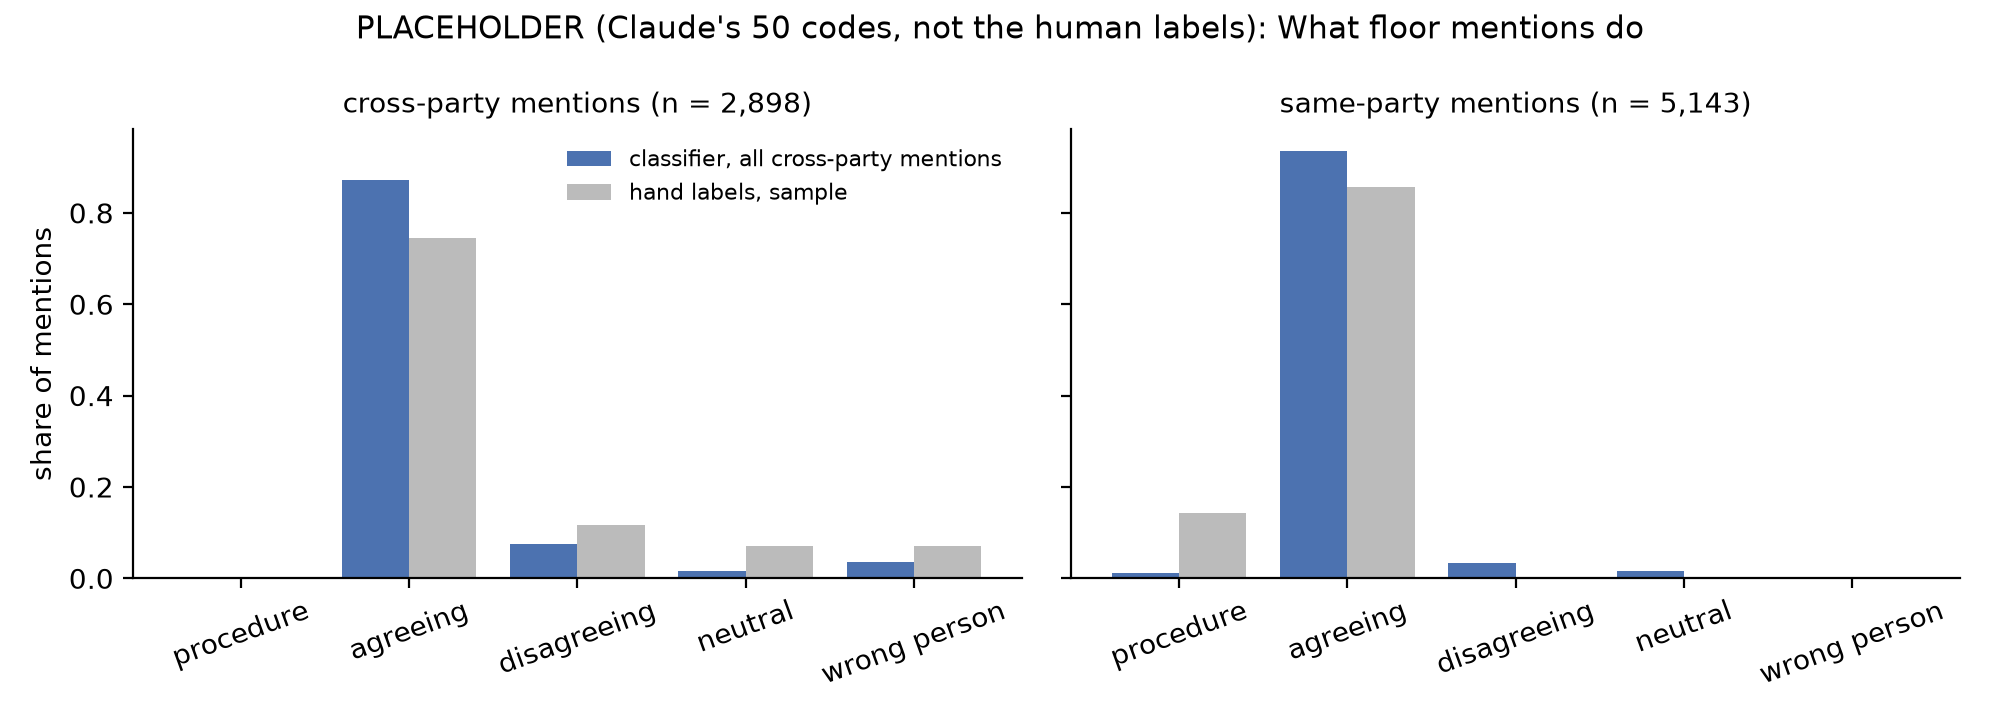
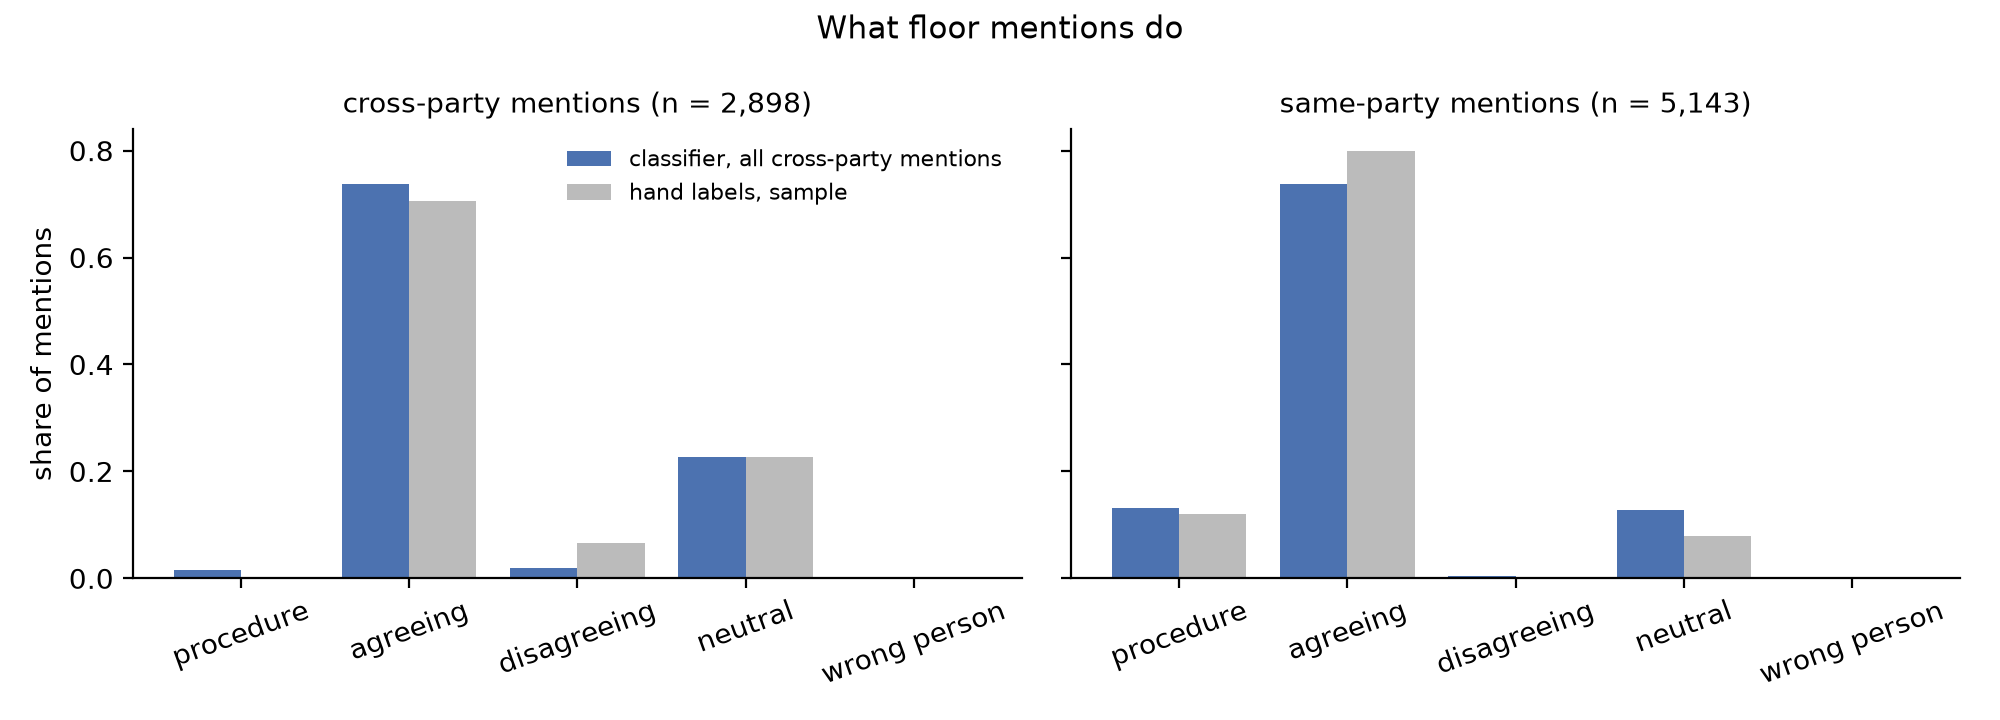
D2 coding complete: agreement and shares; D5 run on the human labels
Pooled human kappa 0.67. Cross-party mentions 71% agreeing, 7% disagreeing, 23% neutral.
Classifier 74% against a 73% always-agreeing baseline, so not used as a measurement.

diff --git a/project/Diego/d2_labelling/agreement.py b/project/Diego/d2_labelling/agreement.py
@@ -11,6 +11,7 @@ given as the argument.
 
 Codes: P procedure, A agreeing, D disagreeing, N neutral, X wrong person (see PROTOCOL.md).
 """
+import re
 import sys
 from itertools import combinations
 from math import sqrt
@@ -43,6 +44,21 @@ else:
     T = table(src)
 coders = [c for c in HUMANS + AIS if c in T.columns and (T[c].astype(str).str.strip() != "").any()]
 C = T[coders].apply(lambda s: s.astype(str).str.strip().str.upper()).join(key[["cross"]])
+PRIORITY = "XPDAN"                                      # the protocol's order when two codes fit
+
+
+def one_code(v):
+    """A cell with two codes ('A OR N', 'D, N') takes the first in the protocol's priority order."""
+    found = [c for c in CODES if re.search(rf"\b{c}\b", v)]
+    return min(found, key=PRIORITY.index) if len(found) > 1 and len(v) > 1 else v
+
+
+for c in coders:
+    for i in C.index[C[c].str.len() > 1]:
+        new = one_code(C.at[i, c])
+        if new != C.at[i, c]:
+            print(f"row {i}, {c}: '{C.at[i, c]}' read as {new} (two codes; protocol priority X, P, D, A, N)")
+            C.at[i, c] = new
 bad = C[coders].stack(); bad = bad[~bad.isin(CODES + [""])]
 if len(bad): raise SystemExit(f"unknown codes: {bad.to_dict()}")
 humans, ais = [c for c in coders if c in HUMANS], [c for c in coders if c in AIS]

diff --git a/project/WORK_AND_DEADLINES.md b/project/WORK_AND_DEADLINES.md
@@ -75,16 +75,16 @@ has not confirmed them. Confirm or change on 18 November.** Hours have not been 
 | # | Task | Delivers | Needs | Status |
 |---|---|---|---|---|
 | D1 | Count the 30 matches printed in the prototype notebook; extend to about 100; report precision | Matcher precision for Methods: `Diego/d1_matcher_precision/REPORT.md` | | In progress: 93 of 100 correct (95% interval 86 to 97%) on the prototype's matcher. Labelled by Claude, 95 of 100 checked by Diego, 5 to recheck. **New, 18 Nov: the new matcher's precision comes from code X in the D2 sample (100 rows), with Martin and Anas as second coders (DECISIONS G10). In progress** |
-| D2 | Labelling protocol for cross-party floor mentions: agreeing, disagreeing or procedural. Draw the sample from `mentions.parquet` | Protocol and sample: `Diego/d2_labelling/PROTOCOL.md` | M2 for the sample; the protocol can start now | In progress: 100 mentions in `Diego/d2_labelling/D2_full_sheet.xlsx`. Diego codes all 100; second coder Martin (1–25), Claude (26–75, done), Anas (76–100) |
+| D2 | Labelling protocol for cross-party floor mentions: agreeing, disagreeing or procedural. Draw the sample from `mentions.parquet` | Protocol and sample: `Diego/d2_labelling/PROTOCOL.md` | M2 for the sample; the protocol can start now | Done: **coding complete** 18 Nov (Diego 100; Martin, Anas, Claude as second coders). Pooled human κ 0.67. Cross-party: 71% agreeing, 7% disagreeing, 23% neutral. `Diego/d2_labelling/RESULTS.md` |
 | D3 | Read Westwood and Harbridge: three lines on what each found. Settle Westwood's year. Find three or four more references | Note on prior work; reference list: `Diego/d3_prior_work.md`, `references.bib` | | Done: eight references verified; Westwood read at the publisher (2022, online Jan 2021) |
 | D4 | Introduction and Discussion; the half-page reflection. **The Introduction and Discussion are now written together (DECISIONS G3)** | Text: `Diego/d4_drafts.md` | D3 | In progress: drafted with placeholders for all numbers |
-| D5 | TF-IDF and logistic-regression classifier trained on the 100 hand labels (D2), checked by leave-one-out against them, applied to all floor mentions: share of P/A/D/N/X for cross-party and same-party mentions | `Diego/d5_classifier/`: results, shares table, one figure | D2 labels | In progress: runs end to end on Claude's 50 codes as a placeholder; switches to the human labels when the sheets are back |
+| D5 | TF-IDF and logistic-regression classifier trained on the 100 hand labels (D2), checked by leave-one-out against them, applied to all floor mentions: share of P/A/D/N/X for cross-party and same-party mentions | `Diego/d5_classifier/`: results, shares table, one figure | D2 labels | Done: run on the human labels. 74% against a 73% baseline, so not used as a measurement; the paper reports the hand-labelled shares |
 
 ### Everyone
 
 | # | Task | Delivers | Status |
 |---|---|---|---|
-| S1 | Second-code the labelling sample from D2: Martin rows 1–25, Anas rows 76–100 (Claude coded 26–75). Report κ per pair | Agreement score for part 2 | In progress: sheets sent 18 Nov |
+| S1 | Second-code the labelling sample from D2: Martin rows 1–25, Anas rows 76–100 (Claude coded 26–75). Report κ per pair | Agreement score for part 2 | Done 18 Nov: Diego–Martin κ 0.59 (25 rows), Diego–Anas κ 0.76 (25 rows) |
 | S2 | Hand-check the 60 sampled speaker turns in `data/processed/speaker_check_sample.csv` | Agreement rate for Methods | Not started |
 | S3 | Read the full draft and comment. Explain out loud one method you did not build | Everyone can answer for the whole paper | Not started |
 
@@ -161,6 +161,10 @@ From the earlier plans in `archive/`. Listed so nobody keeps working on them.
 
 Newest first. One line per change.
 
+- **18 Nov 2026.** **D2 coding is complete**, so G1c can go ahead on `mentions.parquet`. Human κ 0.59 and 0.76
+  (pooled 0.67, above the 0.6 set in advance). Cross-party mentions: 71% agreeing, 7% disagreeing, 23% neutral,
+  0% procedure. D5 classifier does not beat always-agreeing (74% against 73%): hand-labelled shares carry part 2.
+  Two rows (38, 86) look like matcher errors that Diego coded as real mentions; his to recheck.
 - **18 Nov 2026.** Merged with Diego's D2 and D5 commits. DECISIONS corrected: G10 (precision from code X in the
   100-row D2 sample, no separate check), G8 (100 rows, Claude second coder on 26–75, not yet discussed by the
   group), G2a and G11 (no clear TA answer, D5 classifier), G1c (about 9 yields in the sample, so the 30

diff --git a/project/Diego/d2_labelling/RESULTS.md b/project/Diego/d2_labelling/RESULTS.md
@@ -1,0 +1,47 @@
+# D2 results: what floor mentions do
+
+Diego Mijares with Claude, 18 November 2026. Coding complete: Diego coded all 100 mentions, Martin rows
+1–25, Anas rows 76–100, Claude rows 26–75, and three further Claude runs (AI1–AI3) all 100. Full output in
+`agreement_results.txt`, from `agreement.py`.
+
+## Agreement
+
+| Pair | Rows | Raw agreement | Cohen's κ |
+|---|---|---|---|
+| Diego and Martin | 25 | 80% | 0.59 |
+| Diego and Anas | 25 | 88% | 0.76 |
+| Diego and a second human, pooled | 50 | 84% | 0.67 |
+| Diego and Claude | 50 | 86% | 0.66 |
+| Diego and each of AI1–AI3 | 100 | 79–80% | 0.51–0.53 |
+| Diego and the AI1–AI3 majority | 100 | 80% | 0.53 |
+| AI runs with each other | 50–100 | 94–100% | 0.85–1.00 |
+
+Human agreement is above the 0.6 set in advance (pooled), so the codes carry the headline. The AI runs
+agree with Diego about as well as the second humans on their 50 rows, less on all 100. They agree with each
+other almost perfectly because they are the same model: that is stability, not independence.
+
+Two cells held two codes and were read by the protocol's priority: row 85 (Diego, "A or N") as A, row 94
+(Anas, "D, N") as D.
+
+## Shares, from Diego's codes (95% Wilson intervals)
+
+| | Procedure | Agreeing | Disagreeing | Neutral | Wrong person |
+|---|---|---|---|---|---|
+| Cross-party, n = 75 | 0% (0–5) | 71% (60–80) | 7% (3–15) | 23% (15–33) | 0% (0–5) |
+| Same-party, n = 25 | 12% (4–30) | 80% (61–91) | 0% (0–13) | 8% (2–25) | 0% (0–13) |
+
+**Reading:** cross-party mentions on the floor are mostly credit and thanks, and rarely argument. The
+headline "members talk across the aisle to argue" is not supported; the floor map's lower division reflects
+whom members credit. Procedure (yields) stays almost entirely within a party.
+
+## Two rows for Diego to look at again
+
+All three AI runs and Claude coded these as **wrong person**, and Diego did not. Reading the context, the
+AI codes look right. They are Diego's to change; nothing has been overruled.
+
+- **Row 38:** "Griff Lynch", the head of the Georgia Ports Authority, matched to Rep. Stephen Lynch. Diego: A.
+- **Row 86:** "Representatives Bob Matsui and Glenn Anderson", the late husband of Rep. Doris Matsui, matched
+  to her. Diego: N.
+
+If both become X, the matcher's precision in this sample (DECISIONS G10) is 98 of 100, not 100 of 100, and
+the shares above move by about one point.

diff --git a/project/Diego/d5_classifier/README.md b/project/Diego/d5_classifier/README.md
@@ -4,9 +4,7 @@ Diego Mijares with Claude, 18 November 2026. Part 2 of the paper reads 100 menti
 carries those labels to all floor mentions with a TF-IDF and logistic-regression classifier, the course's
 own week 6 tools, and checks it against the hand labels before anything is reported.
 
-**State on 18 Nov: the pipeline runs end to end on Claude's 50 codes as a stand-in. Every number it prints
-now is stamped PLACEHOLDER and goes nowhere.** It switches to the human labels by itself once
-`agreement.py` has written `../d2_labelling/labels_final.csv` from the returned sheets.
+**State on 18 Nov: run on the human labels. It does not beat the baseline; see below.**
 
 ```
 python Diego/d2_labelling/agreement.py <folder with the returned .xlsx files>
@@ -27,7 +25,18 @@ python Diego/d5_classifier/classify.py
 5. **Output.** `results.txt`, `shares.csv` (share of each code, classifier on all mentions next to the hand
    labels on the sample), `predictions.parquet`, `figures/d5_codes.png`.
 
-## What the placeholder run already shows
+## Result on the human labels (18 November)
+
+Trained on Diego's 100 codes (73 A, 19 N, 5 D, 3 P, 0 X). Full output in `results.txt`.
+
+- Leave-one-out accuracy **74%**, against **73%** for always guessing "agreeing". Macro F1 0.33.
+- It never predicts "disagreeing" correctly (0 of 5) and finds 9 of 19 "neutral".
+- **The classifier does not beat the baseline.** Its shares over all 8,041 mentions are in `shares.csv`
+  and the figure, but they are not a measurement. The paper reports the hand-labelled shares (see
+  `../d2_labelling/RESULTS.md`) and states this as the check: with 100 labels, five of them disagreement,
+  a word-count model cannot tell praise from attack.
+
+## What the placeholder run showed (kept for the record)
 
 With 50 labels, 38 of them "agreeing", the classifier predicts "agreeing" for almost everything. It scores
 80% against 76% for always guessing "agreeing", and finds 1 of 5 disagreements. Expect the same problem with
